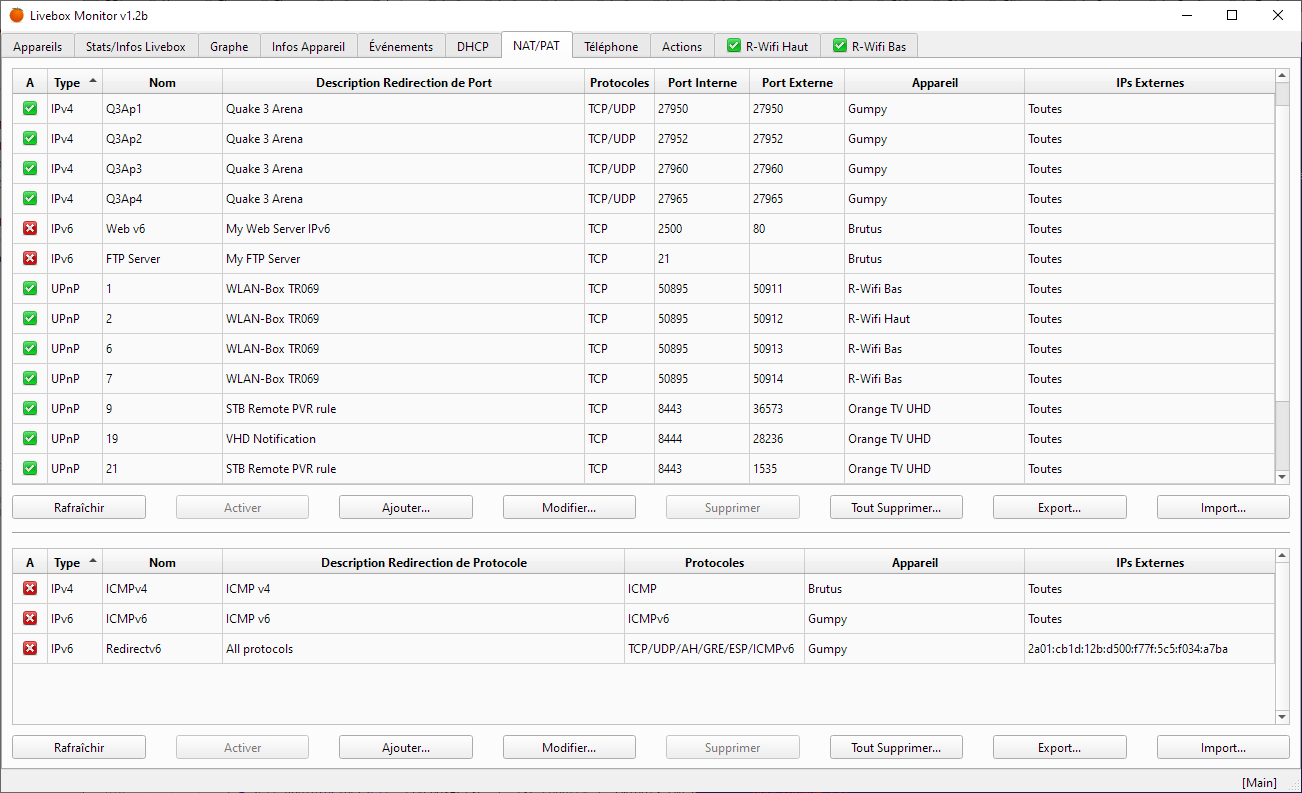
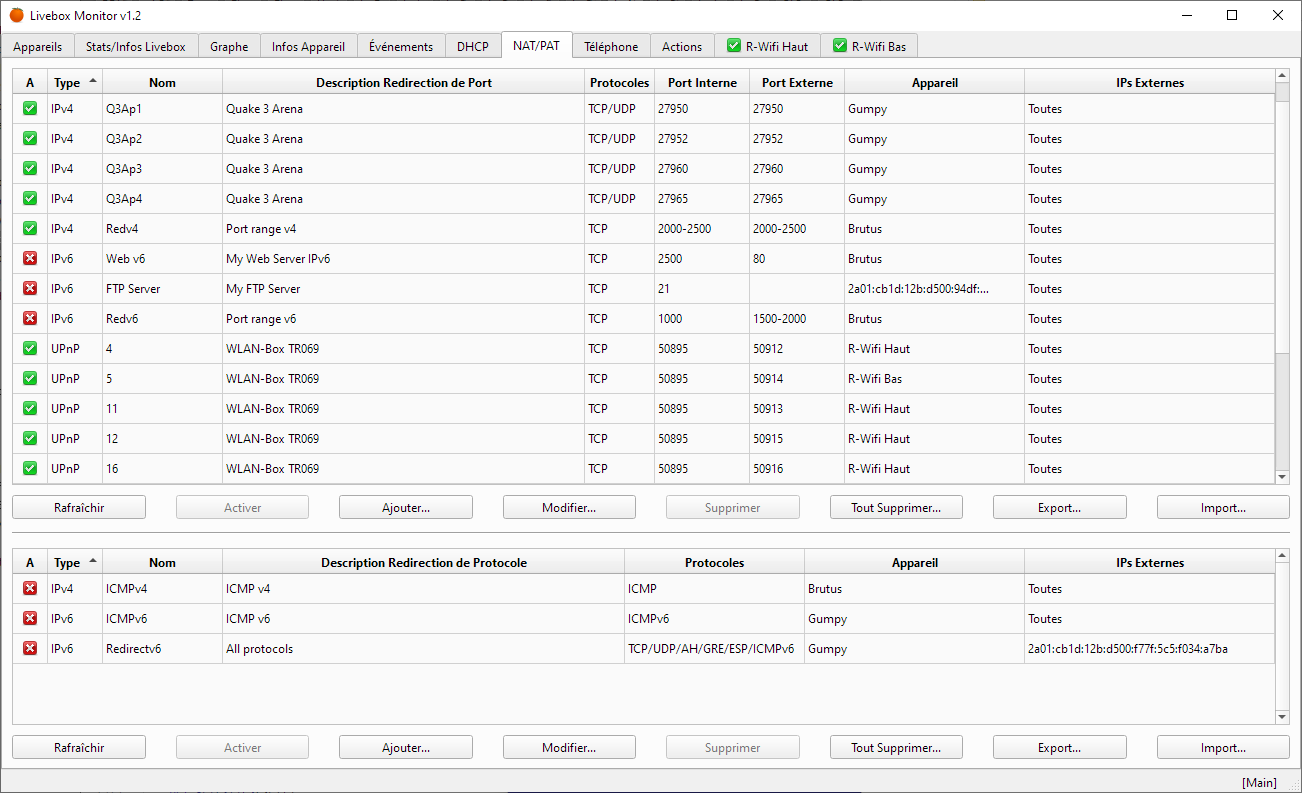
Port range support in port forwarding rules

diff --git a/src/LmNatPatTab.py b/src/LmNatPatTab.py
@@ -871,8 +871,16 @@ class LmNatPat:
 			p = self._patList.item(iIndex, PatCol.Protocols).text()
 			r['ProtoNames'] = p
 			r['ProtoNumbers'] = self.translateNatPatProtocols(p)
-			r['IntPort'] = self._patList.item(iIndex, PatCol.IntPort).text()
-			r['ExtPort'] = self._patList.item(iIndex, PatCol.ExtPort).text()
+			p = self._patList.item(iIndex, PatCol.IntPort).text()
+			if len(p):
+				r['IntPort'] = p
+			else:
+				r['IntPort'] = None
+			p = self._patList.item(iIndex, PatCol.ExtPort).text()
+			if len(p):
+				r['ExtPort'] = p
+			else:
+				r['ExtPort'] = None
 			r['IP'] = self._patList.item(iIndex, PatCol.DestIP).text()
 			e = self._patList.item(iIndex, PatCol.ExtIPs).text()
 			if e == lx('All'):
@@ -914,21 +922,15 @@ class LmNatPat:
 				LmTools.Error('Rule has wrong protocol {} set.'.format(p))
 				return False
 
-		try:
-			n = int(iRule.get('IntPort', '0'))
-		except:
-			n = 0
-		if (n < 1) or (n > 65535):
-			LmTools.Error('Rule has wrong internal port {} set.'.format(n))
-			return False
+		n = iRule.get('IntPort', '')
+		if (n is not None) and len(n):
+			if not LmTools.isTcpUdpPort(n):
+				LmTools.Error('Rule has wrong internal port {} set.'.format(n))
+				return False
 
 		n = iRule.get('ExtPort', '')
-		if len(n):
-			try:
-				n = int(n)
-			except:
-				n = 0
-			if (n < 1) or (n > 65535):
+		if (n is not None) and len(n):
+			if not LmTools.isTcpUdpPort(n):
 				LmTools.Error('Rule has wrong external port {} set.'.format(n))
 				return False
 
@@ -977,7 +979,9 @@ class LmNatPat:
 		r = {}
 		r['id'] = iRule['Name']
 		r['internalPort'] = iRule['IntPort']
-		r['externalPort'] = iRule['ExtPort']
+		p = iRule['ExtPort']
+		if p is not None:
+			r['externalPort'] = p
 		r['destinationIPAddress'] = iRule['IP']
 		r['enable'] = iRule['Enable']
 		r['persistent'] = True
@@ -1022,7 +1026,9 @@ class LmNatPat:
 		r['id'] = iRule['Name']
 		r['origin'] = 'webui'
 		r['sourceInterface'] = 'data'
-		r['sourcePort'] = iRule['ExtPort']
+		p = iRule['ExtPort']
+		if p is not None:
+			r['sourcePort'] = p
 		r['destinationPort'] = iRule['IntPort']
 		r['destinationIPAddress'] = iRule['IP']
 		r['sourcePrefix'] = iRule['ExtIPs']
@@ -1564,10 +1570,12 @@ class LmNatPat:
 	@staticmethod
 	def formatPortTableWidget(iPort):
 		aPort = LmTools.NumericSortItem(iPort)
-		if len(iPort):
-			aPort.setData(QtCore.Qt.ItemDataRole.UserRole, int(iPort))
-		else:
-			aPort.setData(QtCore.Qt.ItemDataRole.UserRole, 0)
+		p = iPort.split('-')[0]		# If range is used, sort with the first port
+		try:
+			i = int(p)
+		except:
+			i = 0
+		aPort.setData(QtCore.Qt.ItemDataRole.UserRole, i)
 		return aPort
 
 
@@ -1605,24 +1613,21 @@ class PatRuleDialog(QtWidgets.QDialog):
 		aProtocolsBox.addWidget(self._tcpCheckBox, 0, QtCore.Qt.AlignmentFlag.AlignLeft)
 		aProtocolsBox.addWidget(self._udpCheckBox, 1, QtCore.Qt.AlignmentFlag.AlignLeft)
 
-		aPortBox = QtWidgets.QHBoxLayout()
-		aPortBox.setSpacing(25)
+		aPortRegExp = QtCore.QRegularExpression(LmTools.PORTS_RS)
+		aPortValidator = QtGui.QRegularExpressionValidator(aPortRegExp)
 
 		aIntPortLabel = QtWidgets.QLabel(lrx('Internal Port:'), objectName = 'intPortLabel')
-		self._intPortEdit = QtWidgets.QSpinBox(objectName = 'intPortEdit')
-		self._intPortEdit.setRange(1, 65535)
+		self._intPortEdit = QtWidgets.QLineEdit(objectName = 'intPortEdit')
+		self._intPortEdit.setValidator(aPortValidator)
 
-		aExtPortBox = QtWidgets.QHBoxLayout()
-		aExtPortBox.setSpacing(0)
-		self._extPortCheckBox = QtWidgets.QCheckBox(lrx('External Port:'), objectName = 'extPortCheckbox')
-		self._extPortCheckBox.clicked.connect(self.extPortClick)
-		self._extPortEdit = QtWidgets.QSpinBox(objectName = 'extPortEdit')
-		self._extPortEdit.setRange(1, 65535)
-		aExtPortBox.addWidget(self._extPortCheckBox, 0, QtCore.Qt.AlignmentFlag.AlignLeft)
-		aExtPortBox.addWidget(self._extPortEdit, 1, QtCore.Qt.AlignmentFlag.AlignLeft)
+		aExtPortLabel = QtWidgets.QLabel(lrx('External Port:'), objectName = 'extPortLabel')
+		self._extPortEdit = QtWidgets.QLineEdit(objectName = 'extPortEdit')
+		self._extPortEdit.setValidator(aPortValidator)
 
-		aPortBox.addWidget(self._intPortEdit, 0, QtCore.Qt.AlignmentFlag.AlignLeft)
-		aPortBox.addLayout(aExtPortBox, 1)
+		aPortBox = QtWidgets.QHBoxLayout()
+		aPortBox.addWidget(self._intPortEdit, 1, QtCore.Qt.AlignmentFlag.AlignLeft)
+		aPortBox.addWidget(aExtPortLabel, 0, QtCore.Qt.AlignmentFlag.AlignLeft)
+		aPortBox.addWidget(self._extPortEdit, 1, QtCore.Qt.AlignmentFlag.AlignLeft)
 
 		aDeviceLabel = QtWidgets.QLabel(lrx('Device:'), objectName = 'deviceLabel')
 		self._deviceCombo = QtWidgets.QComboBox(objectName = 'deviceCombo')
@@ -1696,10 +1701,8 @@ class PatRuleDialog(QtWidgets.QDialog):
 		self._descEdit.setPlainText('')
 		self._tcpCheckBox.setCheckState(QtCore.Qt.CheckState.Checked)
 		self._udpCheckBox.setCheckState(QtCore.Qt.CheckState.Unchecked)
-		self._intPortEdit.setValue(1000)
-		self._extPortCheckBox.setCheckState(QtCore.Qt.CheckState.Checked)
-		self._extPortEdit.setValue(1000)
-		self.extPortClick()
+		self._intPortEdit.setText('1000')
+		self._extPortEdit.setText('1000')
 		self._deviceCombo.setCurrentIndex(0)
 		self._ipEdit.setText('')
 		self._extIPsEdit.setPlainText('')
@@ -1732,14 +1735,8 @@ class PatRuleDialog(QtWidgets.QDialog):
 		else:
 			self._udpCheckBox.setCheckState(QtCore.Qt.CheckState.Unchecked)
 
-		if len(iRule['IntPort']):
-			self._intPortEdit.setValue(int(iRule['IntPort']))
-		if len(iRule['ExtPort']):
-			self._extPortCheckBox.setCheckState(QtCore.Qt.CheckState.Checked)
-			self._extPortEdit.setValue(int(iRule['ExtPort']))
-		else:
-			self._extPortCheckBox.setCheckState(QtCore.Qt.CheckState.Unchecked)
-		self.extPortClick()
+		self._intPortEdit.setText(iRule['IntPort'])
+		self._extPortEdit.setText(iRule['ExtPort'])
 
 		aIP = iRule['IP']
 		self._ipEdit.setText(aIP)
@@ -1773,22 +1770,14 @@ class PatRuleDialog(QtWidgets.QDialog):
 		# Adjust IP field validator
 		if self.getType() == RULE_TYPE_IPv6:
 			aIPRegExp = QtCore.QRegularExpression('^' + LmTools.IPv6_RS + '$')
-			self._extPortCheckBox.setDisabled(False)
 		else:
 			aIPRegExp = QtCore.QRegularExpression('^' + LmTools.IPv4_RS + '$')
-			self._extPortCheckBox.setCheckState(QtCore.Qt.CheckState.Checked)
-			self.extPortClick()
-			self._extPortCheckBox.setDisabled(True)
 		aIPValidator = QtGui.QRegularExpressionValidator(aIPRegExp)
 		self._ipEdit.setValidator(aIPValidator)
 
 
 	def protocolClick(self):
 		self.setOkButtonState()
-
-
-	def extPortClick(self):
-		self._extPortEdit.setDisabled(self._extPortCheckBox.checkState() == QtCore.Qt.CheckState.Unchecked)
 
 
 	def deviceSelected(self, iIndex):
@@ -1908,13 +1897,17 @@ class PatRuleDialog(QtWidgets.QDialog):
 
 
 	def getIntPort(self):
-		return str(self._intPortEdit.value())
+		p = self._intPortEdit.text()
+		if len(p):
+			return p
+		return None
 
 
 	def getExtPort(self):
-		if self._extPortCheckBox.checkState() == QtCore.Qt.CheckState.Checked:
-			return str(self._extPortEdit.value())
-		return ''
+		p = self._extPortEdit.text()
+		if len(p):
+			return p
+		return None
 
 
 	def getIP(self):

diff --git a/src/LmTools.py b/src/LmTools.py
@@ -31,11 +31,15 @@ IPv6_RS = (r'(([0-9a-fA-F]{1,4}:){7,7}[0-9a-fA-F]{1,4}|([0-9a-fA-F]{1,4}:){1,7}:
 		   r'::(ffff(:0{1,4}){0,1}:){0,1}((25[0-5]|(2[0-4]|1{0,1}[0-9]){0,1}[0-9])\.){3,3}(25[0-5]|(2[0-4]|'
 		   r'1{0,1}[0-9]){0,1}[0-9])|([0-9a-fA-F]{1,4}:){1,4}:((25[0-5]|(2[0-4]|1{0,1}[0-9]){0,1}[0-9])\.)'
 		   r'{3,3}(25[0-5]|(2[0-4]|1{0,1}[0-9]){0,1}[0-9]))')
+PORTS_RS = (r'^(6553[0-5]|655[0-2][0-9]|65[0-4][0-9]{2}|6[0-4][0-9]{3}|[1-5][0-9]{4}|[0-9]{1,4})$|'
+			r'^(6553[0-5]|655[0-2][0-9]|65[0-4][0-9]{2}|6[0-4][0-9]{3}|[1-5][0-9]{4}|[0-9]{1,4})-(6553[0-5]|'
+			r'655[0-2][0-9]|65[0-4][0-9]{2}|6[0-4][0-9]{3}|[1-5][0-9]{4}|[0-9]{1,4})$')
 
 # Useful objects
 MAC_RE = re.compile(MAC_RS)
 IPv4_RE = re.compile('^' + IPv4_RS + '$')
 IPv6_RE = re.compile('^' + IPv6_RS + '$')
+PORTS_RE = re.compile(PORTS_RS)
 BOLD_FONT = QtGui.QFont()
 BOLD_FONT.setBold(True)
 
@@ -137,6 +141,11 @@ def IsIPv4(iString):
 # Check if valid IPv6 address
 def IsIPv6(iString):
 	return re.fullmatch(IPv6_RE, iString) is not None
+
+
+# Check if valid TCP/UDP port or ports range
+def isTcpUdpPort(iString):
+	return re.fullmatch(PORTS_RE, iString) is not None
 
 
 # Cleanup URL

diff --git a/src/LmLanguage_FR.py b/src/LmLanguage_FR.py
@@ -1121,10 +1121,11 @@ TOOLTIPS = {
 		'descEdit': 'Description de la règle.',
 		'tcpCheckbox': 'Redirige ou pas le trafic TCP.',
 		'udpCheckbox': 'Redirige ou pas le trafic UDP.',
-		'intPortEdit': 'Port interne sur lequel le trafic doit être redirigé.',
-		'extPortCheckbox': 'Permet de choisir un port externe différent du port interne.\n'
-						   'Cette option est obligatoire pour les types IPv4 & UPnP.',
-		'extPortEdit': 'Port externe à rediriger.',
+		'intPortEdit': 'Port interne sur lequel le trafic doit être redirigé.\n'
+					   'Utiliser le caractère - entre deux ports pour spécifier une plage.',
+		'extPortEdit': 'Port externe à rediriger.\n'
+					   'Laisser ce champs vide s\'il s\'agit du même port que le port interne.\n'
+					   'Utiliser le caractère - entre deux ports pour spécifier une plage.',
 		'deviceCombo': 'Appareil sur lequel le trafic doit être redirigé.',
 		'ipEdit': 'Addresse IP (v4 ou v6 en fonction du type) sur laquelle le trafic doit\n'
 				  'être redirigé.',

diff --git a/src/LmLanguage_XX.py b/src/LmLanguage_XX.py
@@ -1167,7 +1167,7 @@ TOOLTIPS = {
 		'udpCheckbox': '',
 		'intPortLabel': '',
 		'intPortEdit': '',
-		'extPortCheckbox': '',
+		'extPortLabel': '',
 		'extPortEdit': '',
 		'deviceLabel': '',
 		'deviceCombo': '',

diff --git a/README.md b/README.md
@@ -348,8 +348,8 @@ La liste des règles de redirection de port, en haut, affiche les colonnes suiva
 - **Nom** : nom de la règle.
 - **Description** : description de la règle.
 - **Protocoles** : liste des protocoles concernés par la règle. 
-- **Port Interne** : port interne sur lequel le trafic est redirigé.
-- **Port Externe** : port externe à rediriger.
+- **Port Interne** : port ou plage de ports interne sur lequel le trafic est redirigé.
+- **Port Externe** : port ou plage de ports externe à rediriger.
 - **Appareil** : appareil (ou son adresse IP) sur lequel le trafic est redirigé.
 - **IP Externes** : liste des adresses IPs externes concernées par la règle.
 
